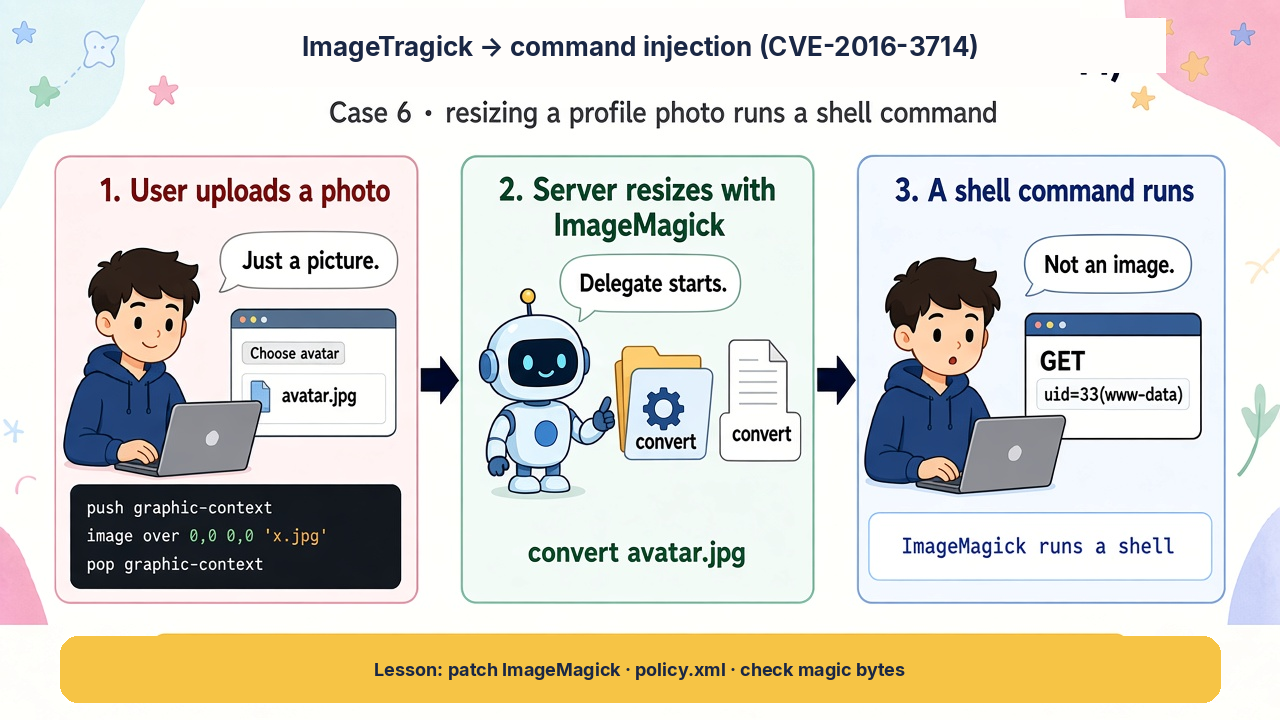
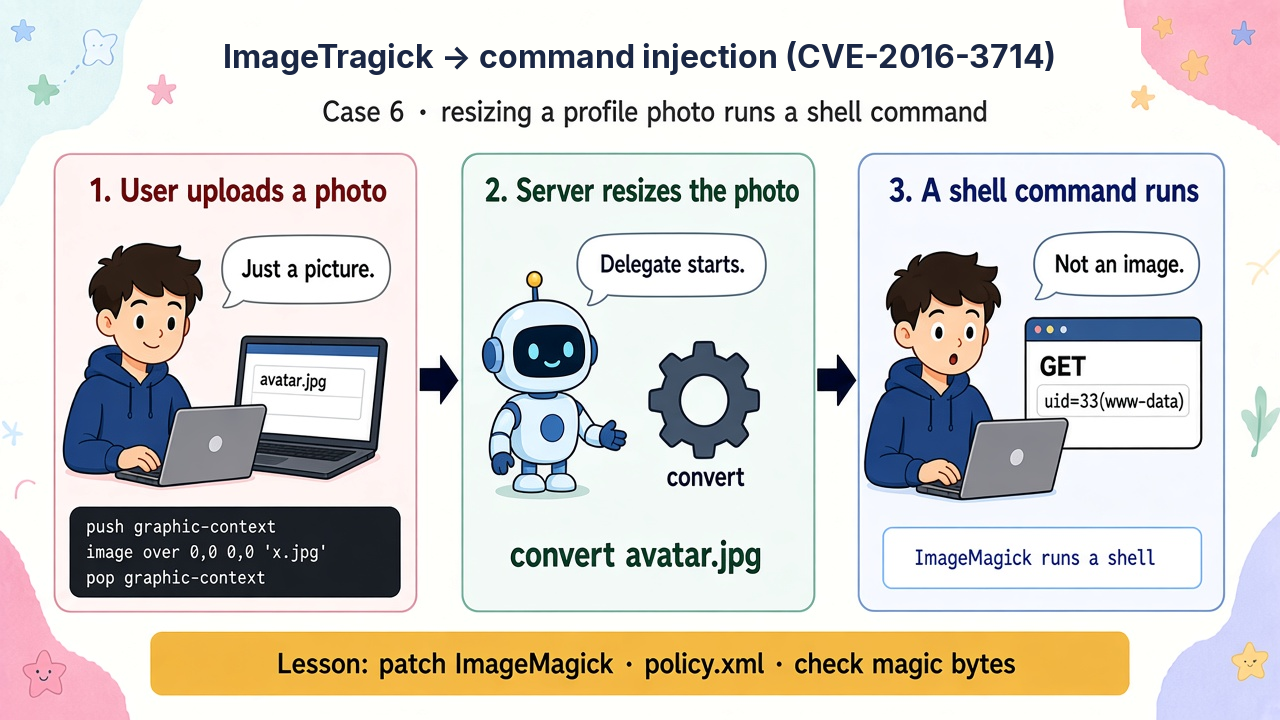
Refresh cases 4–7 story slides to match the three-card deck

diff --git a/FileUpload/presentation/historical-cases/README.md b/FileUpload/presentation/historical-cases/README.md
@@ -90,7 +90,7 @@ Each case has a PNG in [`illustrations/`](illustrations/). Case **#1** uses **tw
 
 | | |
 |---|---|
-| **Illustration** | [`illustrations/hist-04-svg-xss-story-720p.png`](illustrations/hist-04-svg-xss-story-720p.png) — **SVG upload → stored XSS** |
+| **Illustration** | [`illustrations/hist-04-svg-xss-story-720p.png`](illustrations/hist-04-svg-xss-story-720p.png) — **SVG upload → stored XSS (CWE-79)** |
 | **PortSwigger — client-side scripts (SVG/HTML uploads)** | https://portswigger.net/web-security/file-upload |
 | **PacketWanderer — Stored XSS via SVG** | https://packetwanderer.com/posts/svg-xss/ |
 | **TypiCMS advisory** | https://github.com/TypiCMS/Core/security/advisories/GHSA-xfvg-8v67-j7wp |
@@ -142,7 +142,7 @@ Each case has a PNG in [`illustrations/`](illustrations/). Case **#1** uses **tw
 
 | | |
 |---|---|
-| **Illustration** | [`illustrations/hist-07-iis-semicolon-story-720p.png`](illustrations/hist-07-iis-semicolon-story-720p.png) — **IIS semicolon → script hidden as .jpg** |
+| **Illustration** | [`illustrations/hist-07-iis-semicolon-story-720p.png`](illustrations/hist-07-iis-semicolon-story-720p.png) — **IIS semicolon → script hidden as .jpg (CVE-2009-4444)** |
 | **CVE-2009-4444 (NVD)** | https://nvd.nist.gov/vuln/detail/CVE-2009-4444 |
 | **Rapid7 — Metasploit + JPG header** | https://old.rapid7.com/blog/post/2009/12/28/exploiting-microsoft-iis-with-metasploit/ |
 | **OWASP — bypass list (IIS semicolon, double ext.)** | https://owasp.org/www-community/vulnerabilities/Unrestricted_File_Upload |
@@ -150,7 +150,7 @@ Each case has a PNG in [`illustrations/`](illustrations/). Case **#1** uses **tw
 
 **Plain language:** The filename looks like `.jpg`, but legacy IIS treats part of the name differently and runs it as a server script.
 
-**Technical:** CVE-2009-4444 — IIS uses the extension **before** `;`; the upload filter only checks `.jpg`.
+**Technical:** CVE-2009-4444 — IIS uses the extension **before** `;`; the upload filter only checks `.jpg`. Story slide: [`hist-07-iis-semicolon-story-720p.png`](illustrations/hist-07-iis-semicolon-story-720p.png).
 
 ---
 
